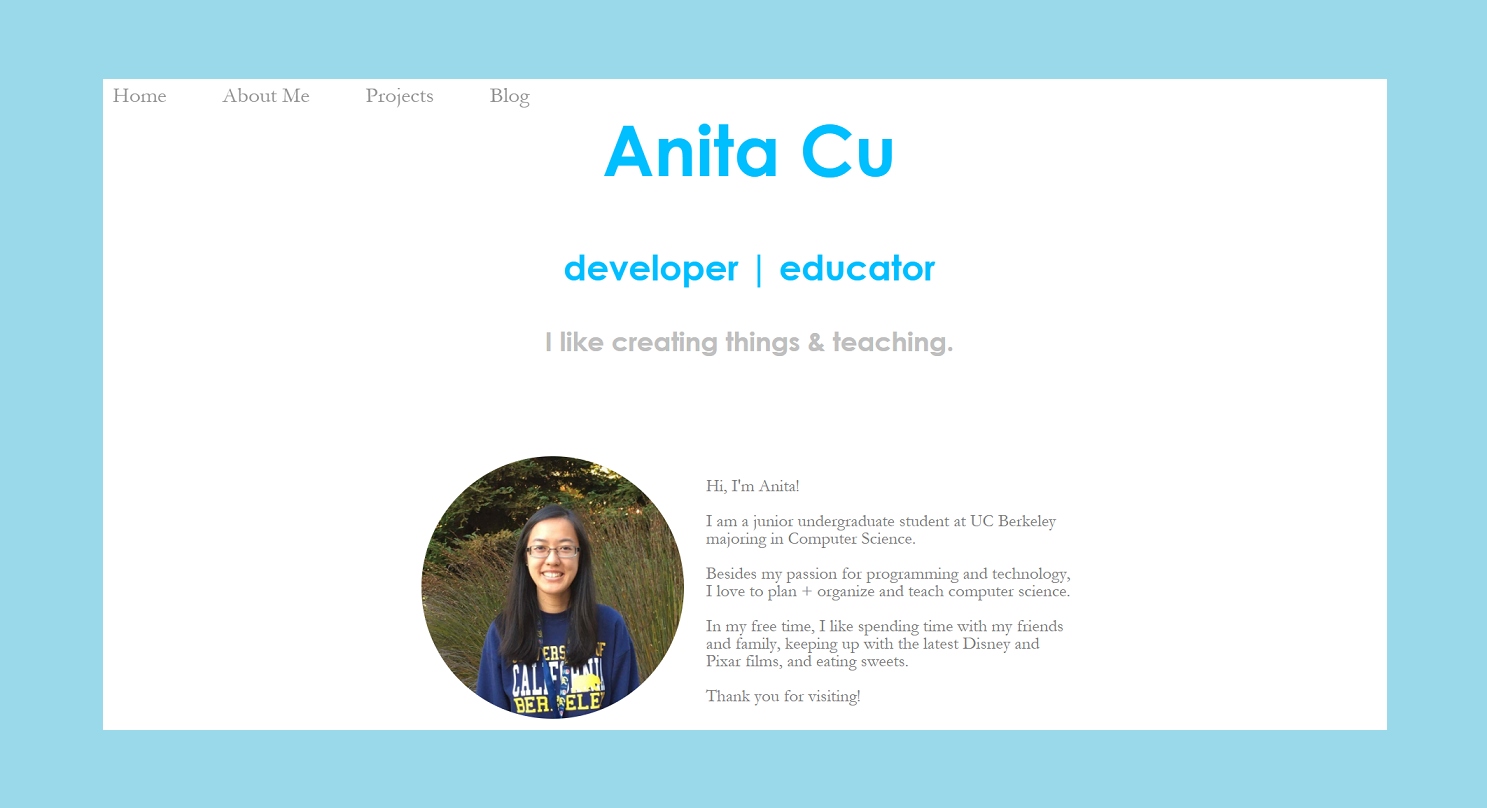
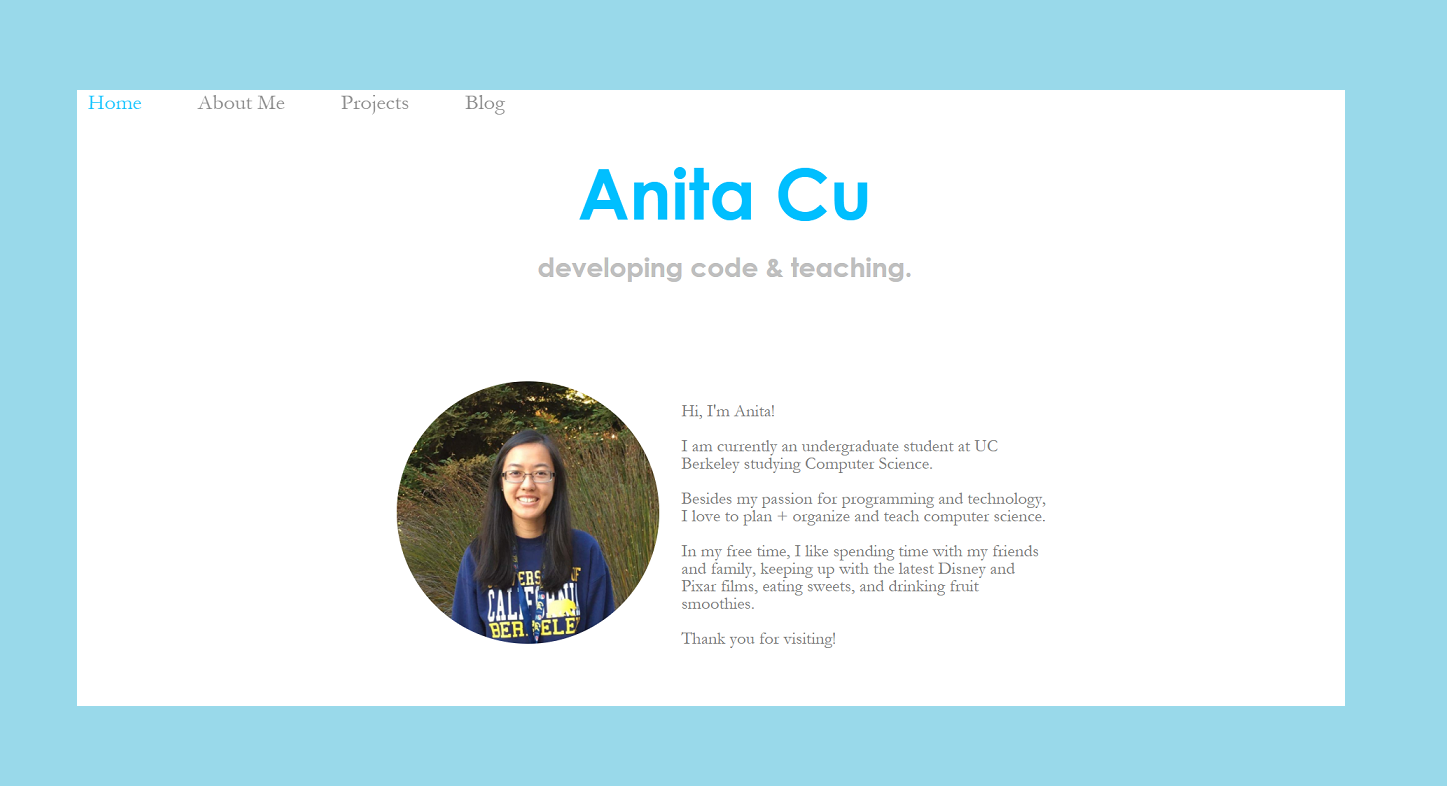
Updated home page

Changed region(s): [[0.0311, 0.0916, 0.933, 0.916], [0.3732, 0.1527, 0.622, 0.3664], [0.3732, 0.3969, 0.6531, 0.458]]

diff --git a/index.html b/index.html
@@ -23,9 +23,7 @@
       <header>
         <h1> Anita Cu </h1>
 
-        <h2> developer | educator </h2>
-
-        <h3>  I like creating things & teaching. </h3>
+        <h3>  developing code & teaching. </h3>
       </header>
 
       <img class = "img-circle" src = "aboutme.jpg"
@@ -35,12 +33,12 @@
 
       Hi, I'm Anita!
       <br> </br>
-      I am a junior undergraduate student at UC Berkeley majoring in Computer Science.
+      I am currently an undergraduate student at UC Berkeley studying Computer Science.
       <br> </br>
       Besides my passion for programming and technology, I love to plan + organize and teach computer science.
       <br> </br>
       In my free time, I like spending time with my friends and family, keeping up with the latest Disney and Pixar films,
-      and eating sweets.
+      eating sweets, and drinking fruit smoothies.
       <br> </br>
       Thank you for visiting!
       <br> </br>

diff --git a/aboutme.html b/aboutme.html
@@ -15,17 +15,7 @@
     </nav>
 
 <header>
-  <h2> How it all began? </h2>
-</header>
-
-<p>
-My love for programming began when I took an introductory course in Java the summer before my senior year in high school.
-<br> </br>
-Exposed to a different aspect of technology, I became increasingly interested in a world where I could create anything by writing my own programs that could solve problems, each serving its own purpose.
-</p>
-
-<header>
-  <h2> 6 Things About Me </h2>
+  <h2> A little about me. </h2>
 </header>
 
 <img class = "img-rounded" src = "pic2.jpg"
